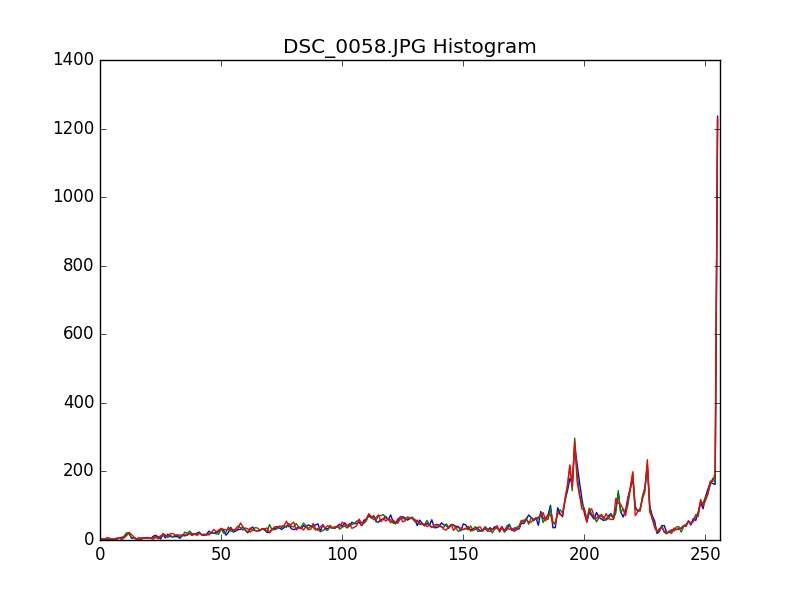
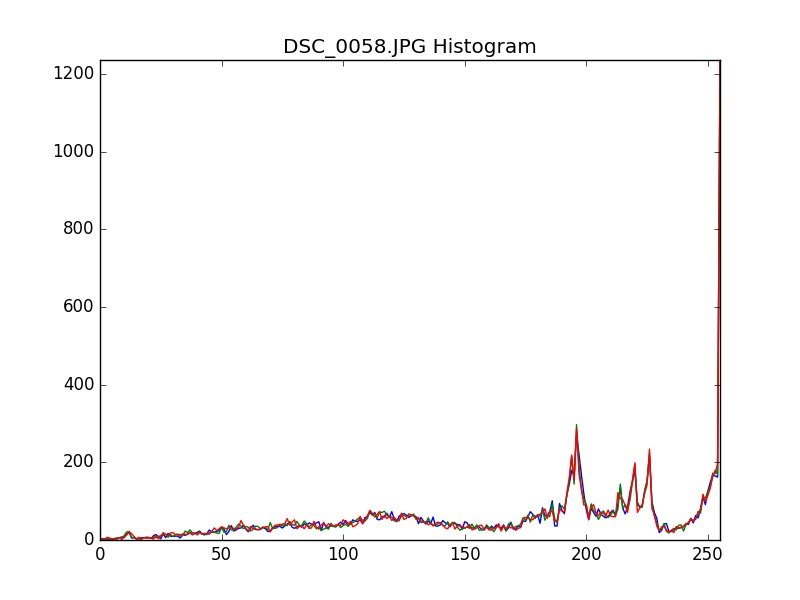
First pass at linear rescale.  Fast but has saturation/bound issues that produces psychedelic looking images

diff --git a/Brightness_Correction.py b/Brightness_Correction.py
@@ -11,11 +11,19 @@ def createHistogram(image):
 	histogram = []
 
 	for channel in range(image.shape[2]):
-		hist = cv2.calcHist(image, [channel], None, [256], [0, 256])
+		hist = cv2.calcHist(image.astype(np.uint16), [channel], None, [256], [0, 256])
 		histogram.append(hist)
 		
 	return histogram
 
+
+# Similar to createHistogram but can process the summation of up to 3 joined layers
+# Outputs a single histogram of with 3x the range 
+def createJoinedHistogram(image):
+	histogram = cv2.calcHist(image.astype(np.uint16), [0], None, [768], [0, 768])
+	# histogram = cv2.calcHist(image, [0], None, [256 * 3], [0, 256 * 3])
+
+	return histogram
 
 
 # Given a list of histograms, one for each color channel, return a plot of the histograms, all on one chart
@@ -34,29 +42,11 @@ def drawHistogram(histograms):
 		for index in range(len(histograms)):
 			plt.plot(histograms[index], color=colors[index])
 
-	plt.xlim([0, 256])
+	plt.axis('tight')
 	plt.title("Histogram")
 
 	return plt
 
-
-# Combine the histograms channels by adding them
-# Returns a single histogram and its plot
-def joinHistLayers(histograms):
-
-	output = np.zeros(histograms[0].shape, dtype=np.float)
-
-	for channel in range(len(histograms)):
-		output += histograms[channel]
-
-	# Clear current plot before making any new ones
-	plt.cla()
-	plt.clf()
-
-	plt.plot(output, color='k')
-	plt.xlim([0, 256])
-
-	return output, plt
 
 # Finds the appropriate upper and lower pixel value bounds that excludes the threshold percentage
 # of pixels on both sides of the histogram
@@ -74,9 +64,44 @@ def findRange(histogram, threshold):
 
 	# Also find upper bound
 	total = 0
-	i = 255
+	i = histogram.shape[0]
 	while np.sum(histogram[i:]) <= total_pixels * threshold:
 		i -= 1
 	end = i
 
 	return start, end
+
+
+# Produces a numpy array of the same shape as the input image but the range is the sum of each 
+# color channel.  
+# Returns a numpy array
+def joinLayers(image):
+
+	output = np.zeros((image.shape[0], image.shape[1]), dtype=np.float)
+
+	for channel in range(image.shape[2]):
+		output += image[:, :, channel]
+
+	return output
+
+
+# Given an image, it's joined values, and a target range, scale the original image to fit the desired histogram
+# Outputs a float numpy array of the same size and shape as image
+def linearRescale(image, start, end):
+
+	output = np.zeros(image.shape, dtype=np.float)
+
+	scale = 256 / (end - start)
+
+	# for index, pixel in np.ndenumerate(image):
+	# 	image[index] = max(( pixel - start ) * scale, 0)
+
+	for index in range(image.shape[2]):
+		output[:,:,index] = (image[:,:,index] - start ) * scale
+
+	lower_bound_mask = output < 0
+	output[lower_bound_mask] = 0
+	upper_bound_mask = output > 255
+	output[upper_bound_mask] = 255
+
+	return output.astype(np.uint8)

diff --git a/main.py b/main.py
@@ -1,6 +1,7 @@
 import os
 import sys
 import cv2
+import numpy as np
 from matplotlib import pyplot as plt
 
 import Brightness_Correction as BC
@@ -19,20 +20,32 @@ if __name__ == "__main__":
 	for root, subdirectories, files in os.walk(SOURCE_DIR):
 		for file in files:
 
+			# File name
 			print os.path.join(root, file)
 			image = cv2.imread(os.path.join(root, file))
-			print image.shape
+			print "Image shape: {}".format(image.shape)
+			
+			# BGR Histogram
 			histogram = BC.createHistogram(image)
-			print len(histogram)
-			# print histogram
-
 			graph = BC.drawHistogram(histogram)
 			graph.title("%s Histogram" % file)
 			graph.savefig(os.path.join(OUTPUT_DIR, '%s_Hist.jpg' % file))
 
-			combined_hist, combined_hist_plot = BC.joinHistLayers(histogram)
-			combined_hist_plot.title("%s Color-Combined Histogram" % file)
-			combined_hist_plot.savefig(os.path.join(OUTPUT_DIR, '%s_Comb_Hist.jpg' % file))
+			# Combine image layers
+			joinedlayers = BC.joinLayers(image)
+			print "Joined layers shape: {}".format(joinedlayers.shape)
 
-			start, end = BC.findRange(combined_hist, .10)
+			# Joined Histogram
+			joined_hist = BC.createJoinedHistogram(joinedlayers)
+			joinedhistgraph = BC.drawHistogram([joined_hist])
+			joinedhistgraph.savefig(os.path.join(OUTPUT_DIR, '%s_Comb_Hist.jpg' % file))
+
+			# Find target range
+			start, end = BC.findRange(joined_hist, .10)
 			print "90%% of pixels lie between %d and %d" % (start, end)
+
+			# Rescale brightness linearly
+			print "Scaling images to between {} and {}".format(start/3, end/3)
+			rescaled = BC.linearRescale(image, start/3, end/3)
+			cv2.imwrite(os.path.join(OUTPUT_DIR, '%s_LinearScaling.jpg' % file), rescaled)
+			print "Min val: {} \t Max val: {}".format(np.min(rescaled), np.max(rescaled))
